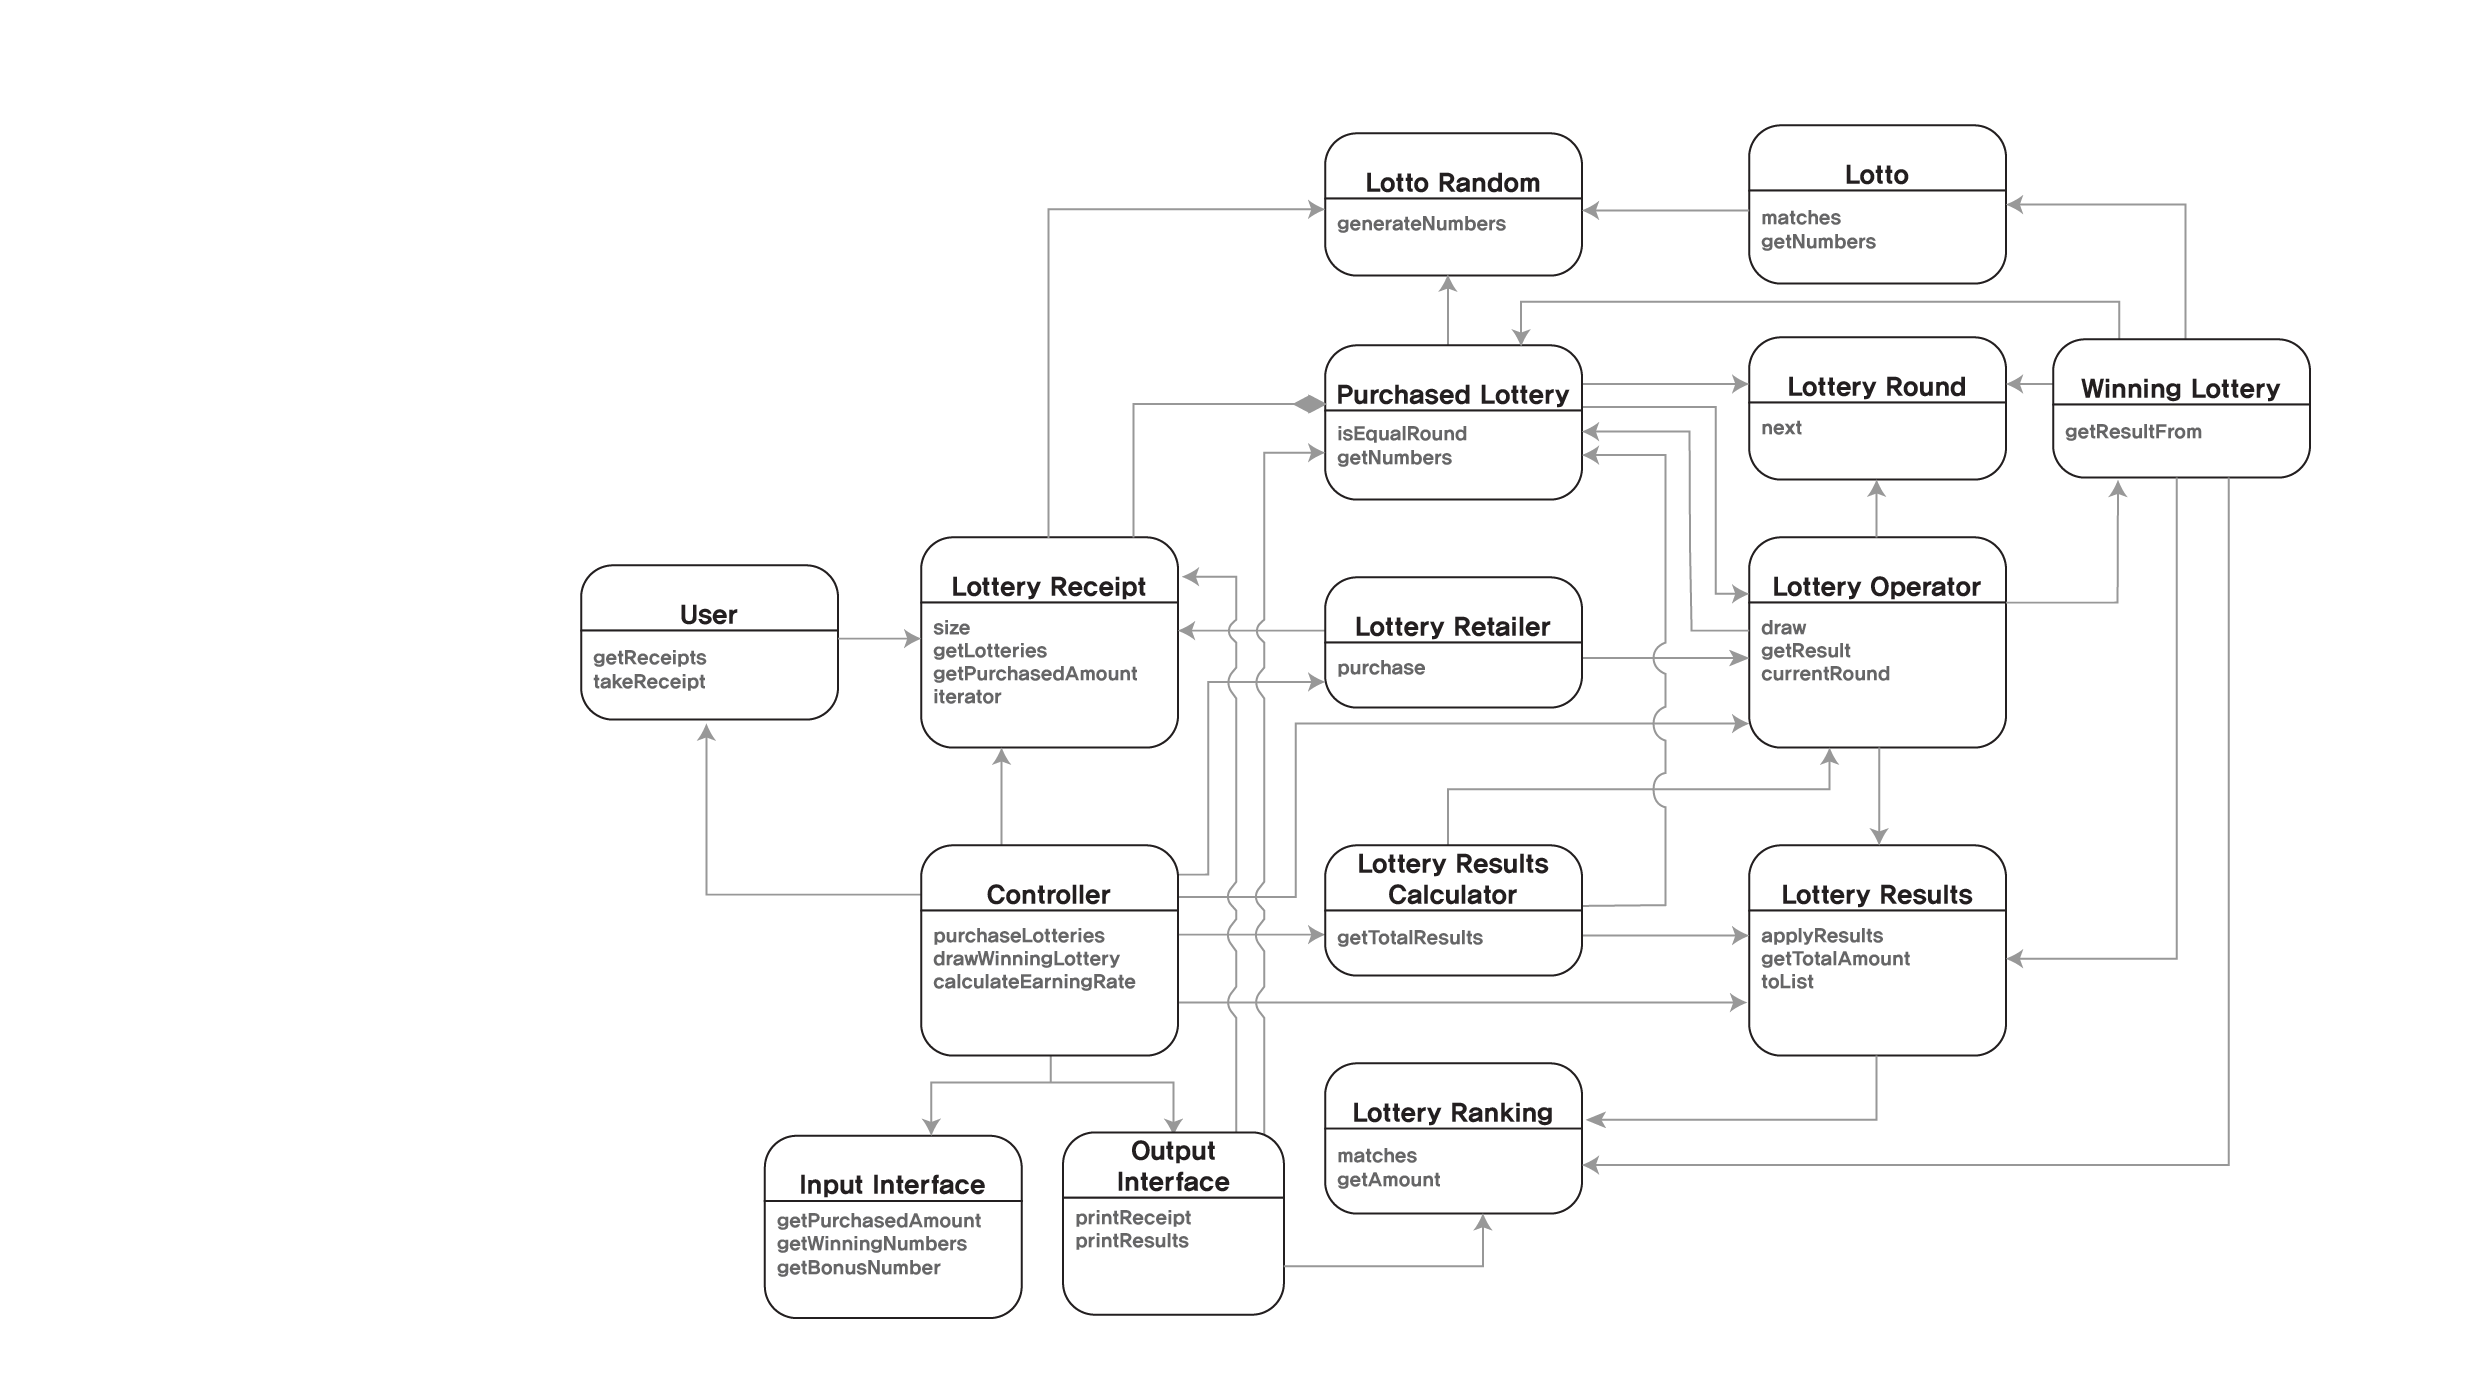
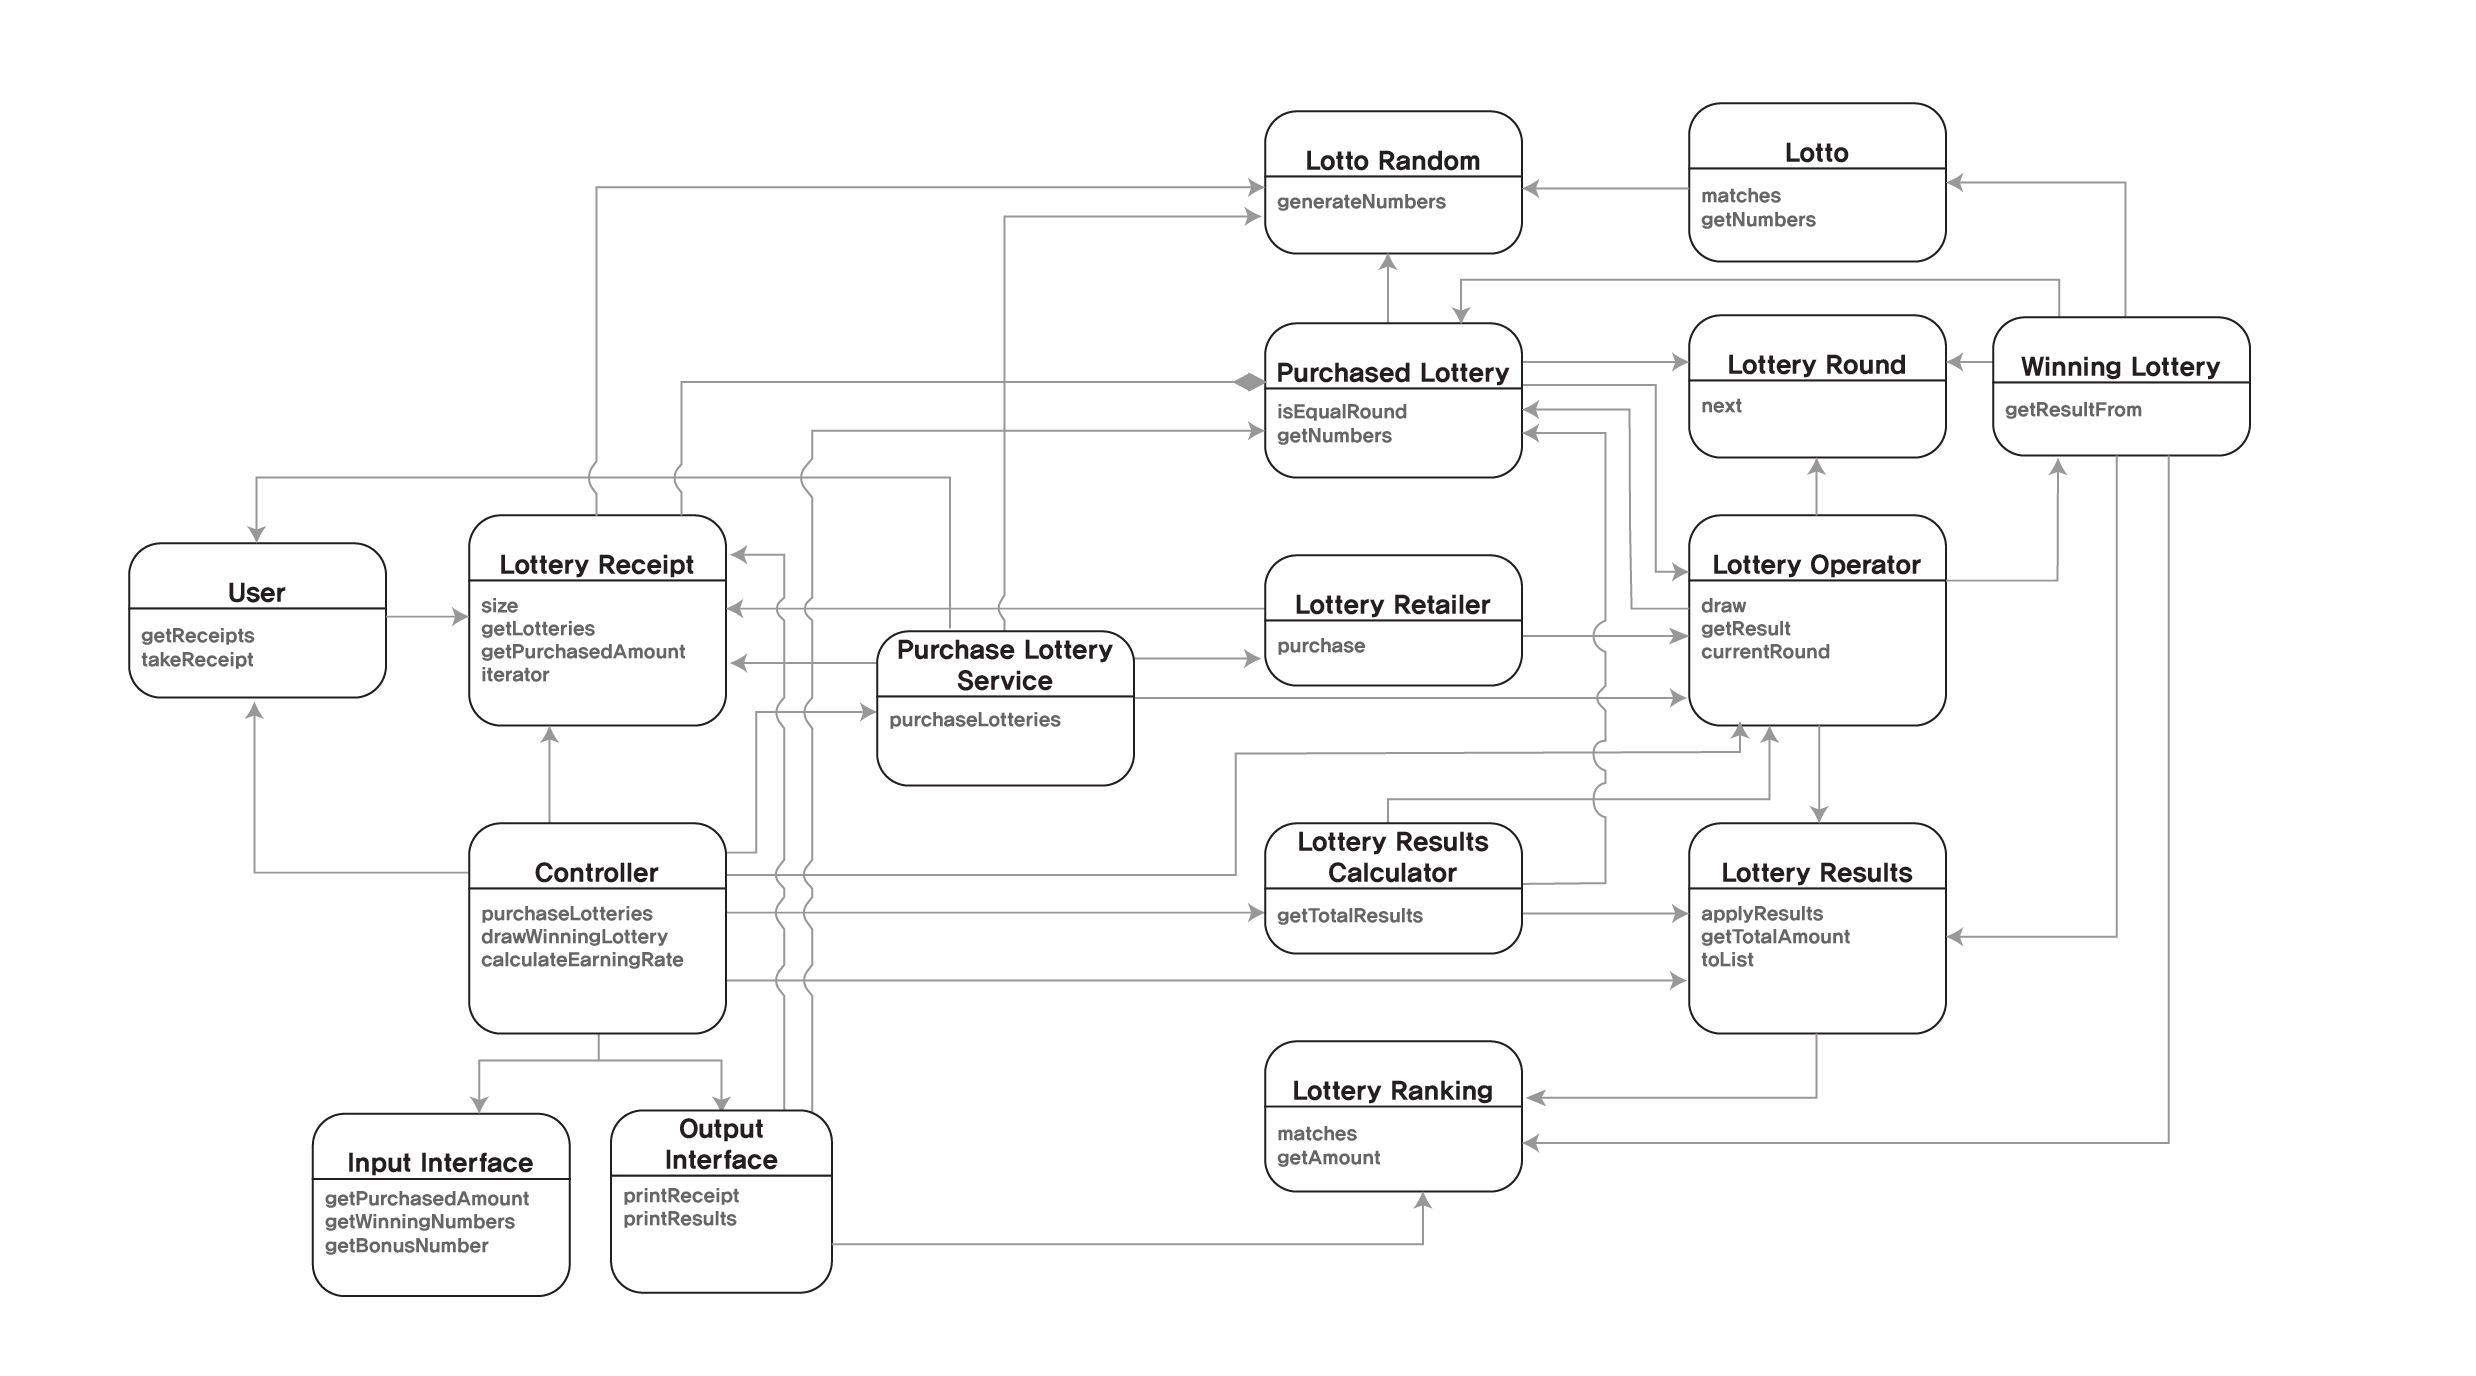
refactor: Controller의 로직을 PurchaseLotteryService로 분리하기(#8)

diff --git a/src/main/java/lotto/Controller.java b/src/main/java/lotto/Controller.java
@@ -5,9 +5,8 @@ import lotto.domain.LotteryOperator;
 import lotto.domain.LotteryReceipt;
 import lotto.domain.LotteryResults;
 import lotto.domain.LotteryResultsCalculator;
-import lotto.domain.LotteryRetailer;
-import lotto.domain.LottoRandom;
 import lotto.domain.User;
+import lotto.service.PurchaseLotteryService;
 
 public class Controller {
     private InputInterface in;
@@ -15,21 +14,21 @@ public class Controller {
     private LotteryOperator operator;
     private LotteryResultsCalculator calculator;
     private User user;
+    private PurchaseLotteryService purchaseLotteryService;
 
     Controller(InputInterface in, OutputInterface out, LotteryOperator operator, User user,
-               LotteryResultsCalculator calculator) {
+               LotteryResultsCalculator calculator, PurchaseLotteryService purchaseLotteryService) {
         this.in = in;
         this.out = out;
         this.operator = operator;
         this.user = user;
         this.calculator = calculator;
+        this.purchaseLotteryService = purchaseLotteryService;
     }
 
     public void purchaseLotteries() {
         long purchasedAmount = in.getPurchasedAmount();
-        LotteryRetailer retailer = new LotteryRetailer(new LottoRandom());
-        LotteryReceipt receipt = retailer.purchase(operator, purchasedAmount);
-        user.takeReceipt(receipt);
+        LotteryReceipt receipt = purchaseLotteryService.purchaseLotteries(user,purchasedAmount);
         out.printReceipt(receipt);
     }
 

diff --git a/src/main/java/lotto/Application.java b/src/main/java/lotto/Application.java
@@ -4,15 +4,21 @@ import camp.nextstep.edu.missionutils.Console;
 import java.text.NumberFormat;
 import lotto.domain.LotteryOperator;
 import lotto.domain.LotteryResultsCalculator;
+import lotto.domain.LotteryRetailer;
+import lotto.domain.LottoRandom;
 import lotto.domain.User;
+import lotto.service.PurchaseLotteryService;
 
 public class Application {
     public static void main(String[] args) {
 
+        LottoRandom random = new LottoRandom();
         LotteryOperator operator = new LotteryOperator();
+        LotteryRetailer retailer = new LotteryRetailer(random);
         NumberFormat numberFormat = NumberFormat.getIntegerInstance();
+        PurchaseLotteryService purchaseLotteryService = new PurchaseLotteryService(retailer,operator);
         Controller controller = new Controller(new InputInterface(), new OutputInterface(numberFormat),
-                operator, new User(), new LotteryResultsCalculator(operator));
+                operator, new User(), new LotteryResultsCalculator(operator), purchaseLotteryService);
         controller.purchaseLotteries();
         controller.drawWinningLottery();
         controller.calculateEarningRate();

diff --git a/src/main/java/lotto/service/PurchaseLotteryService.java b/src/main/java/lotto/service/PurchaseLotteryService.java
@@ -1,0 +1,25 @@
+package lotto.service;
+
+import lotto.domain.LotteryOperator;
+import lotto.domain.LotteryReceipt;
+import lotto.domain.LotteryRetailer;
+import lotto.domain.LottoRandom;
+import lotto.domain.PurchasedLottery;
+import lotto.domain.User;
+
+public class PurchaseLotteryService {
+    private final LotteryRetailer retailer;
+    private final LotteryOperator operator;
+
+    public PurchaseLotteryService(LotteryRetailer retailer, LotteryOperator operator) {
+        this.retailer = retailer;
+        this.operator = operator;
+    }
+
+    public LotteryReceipt purchaseLotteries(User user, long purchasedAmount) {
+        LotteryReceipt receipt = retailer.purchase(operator, purchasedAmount);
+        user.takeReceipt(receipt);
+        return receipt;
+    }
+
+}
